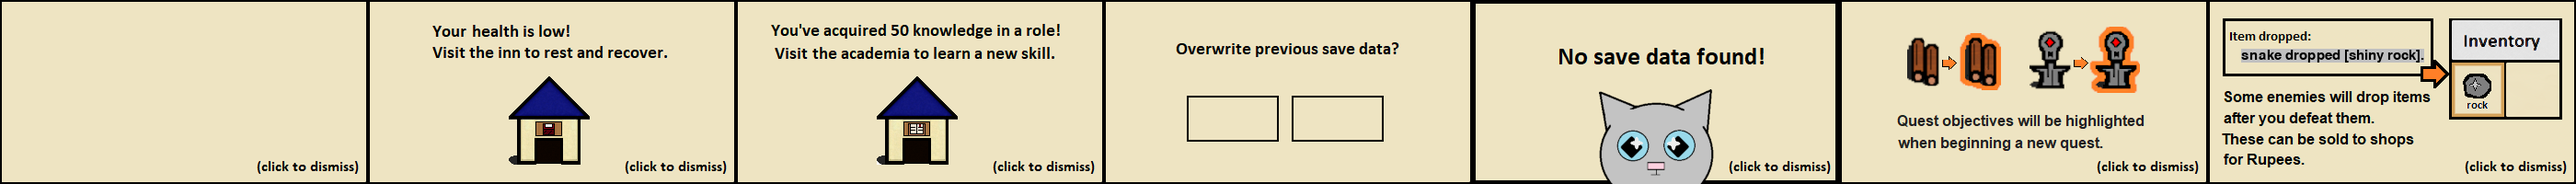
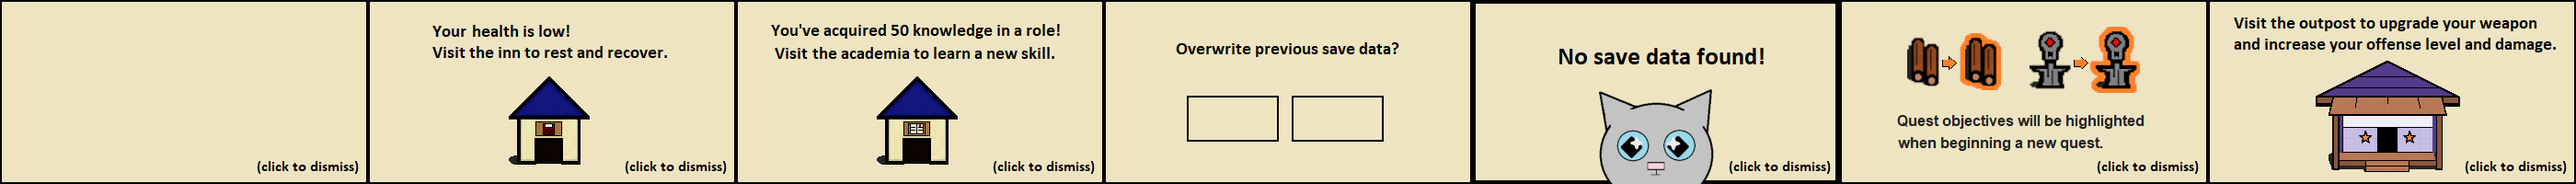
Implemented more visual elements for quests. Added popup for stardust outpost.

Changed region(s): [[0.8389, 0.09, 0.9943, 0.93]]

diff --git a/project_eterna.py b/project_eterna.py
@@ -5799,6 +5799,7 @@ if __name__ == '__main__':
     knowledge_academia = Notification("knowledge academia notification", False, 510, 365,
                                       graphic_dict["knowledge_popup"])
     rest_recover = Notification("rest recover", False, 510, 365, graphic_dict["health_popup"])
+    outpost_notify = Notification("outpost notify", False, 510, 365, graphic_dict["outpost_popup"])
     shop_gear = Notification("shop gear", False, 510, 365, graphic_dict["gear_popup"])
     save_check = Notification("save check", False, 510, 365, graphic_dict["save_popup"])
     save_absent = Notification("save absent", False, 640, 574, graphic_dict["save_not_found"])
@@ -6174,6 +6175,7 @@ if __name__ == '__main__':
     menagerie_window = UiElement("menagerie window", 500, 319, graphic_dict["kasper_manage"])
     pet_hatch_window = UiElement("hatching window", 820, 440, graphic_dict["seed_hatching"])
     pet_energy_window = UiElement("pet energy", 375, 45, graphic_dict["pet_energy"])
+    quest_visual = UiElement("quest visual", 500, 500, graphic_dict["pine_logs_big_img"])
 
     seldon_flower_more_button = pygame.Rect((205, 225), (50, 50))
     seldon_flower_less_button = pygame.Rect((205, 290), (50, 50))
@@ -6672,6 +6674,7 @@ if __name__ == '__main__':
     knowledge_academia_show = False
     knowledge_window_clicked = False
     rest_recover_show = False
+    outpost_show = True
     rest_window_clicked = False
     saved = False
     entered = False
@@ -8046,6 +8049,10 @@ if __name__ == '__main__':
                                 drawing_functions.game_guide_container.clear()
                             if level_up_win.rect.collidepoint(pos):
                                 drawing_functions.level_up_draw(level_up_win, player, font, False)
+                            if outpost_notify.rect.collidepoint(pos):
+                                drawing_functions.outpost_window.clear()
+                                if len(drawing_functions.outpost_window) > 0:
+                                    outpost_show = False
 
                 # ------------------------------------------------------------------------------------------------------
                 # ------------------------------------------------------------------------------------------------------
@@ -9266,7 +9273,7 @@ if __name__ == '__main__':
                                                                            rock_3, pet_energy_window, stardust_top,
                                                                            necrola_battle_sprite, osodark_battle_sprite,
                                                                            sfx_nede_bark, sfx_door_open, sfx_item_rupee,
-                                                                           rock_3_con)
+                                                                           rock_3_con, outpost_show, outpost_notify)
                     else:
                         stardust_returned = zone_stardust.stardust_outpost(pygame, player, game_window,
                                                                            stardust_song_set, stardust_outpost_music,
@@ -9296,7 +9303,7 @@ if __name__ == '__main__':
                                                                            rock_3, pet_energy_window, stardust_top,
                                                                            necrola_battle_sprite, osodark_battle_sprite,
                                                                            sfx_nede_bark, sfx_door_open, sfx_item_rupee,
-                                                                           rock_3_con)
+                                                                           rock_3_con, outpost_show, outpost_notify)
 
                     stardust_song_set = stardust_returned["stardust_song_set"]
                     nede_sprite_reset = stardust_returned["nede_sprite_reset"]
@@ -9313,6 +9320,7 @@ if __name__ == '__main__':
                     interacted = stardust_returned["interacted"]
                     npc_tic = stardust_returned["npc_tic"]
                     rock_3_con = stardust_returned["rock_3_con"]
+                    outpost_show = stardust_returned["outpost_show"]
 
                     loot_popup_returned = drawing_functions.loot_popups(time, loot_updated, font, loot_popup,
                                                                         battle_info_to_return_to_main_loop, leveled)
@@ -12466,6 +12474,12 @@ if __name__ == '__main__':
                                                                  quest_star_apothecary.y_coordinate,
                                                                  graphic_dict["building_npc_star_complete"])
                                     screen.blit(quest_star_apothecary.surf, quest_star_apothecary.rect)
+                            if player.quest_complete["can't apothecary it"]:
+                                quest_visual.update(115, 380, graphic_dict["ore_big_pile_img"])
+                                screen.blit(quest_visual.surf, quest_visual.rect)
+                            else:
+                                quest_visual.update(115, 380, graphic_dict["ore_big_img"])
+                                screen.blit(quest_visual.surf, quest_visual.rect)
                         else:
                             game_window.blit(korlok_district_apothecary, (0, 0))
                             game_window.blit(equipment_screen.surf, equipment_screen.rect)
@@ -12499,6 +12513,13 @@ if __name__ == '__main__':
                                                                  quest_star_apothecary.y_coordinate,
                                                                  graphic_dict["building_npc_star_complete"])
                                     game_window.blit(quest_star_apothecary.surf, quest_star_apothecary.rect)
+
+                            if player.quest_complete["can't apothecary it"]:
+                                quest_visual.update(115, 380, graphic_dict["ore_big_pile_img"])
+                                game_window.blit(quest_visual.surf, quest_visual.rect)
+                            else:
+                                quest_visual.update(115, 380, graphic_dict["ore_big_img"])
+                                game_window.blit(quest_visual.surf, quest_visual.rect)
 
                         # draw texts to the screen, like message box, player rupees and level, inv and equ updates
                         if SCREEN_WIDTH != 1280 and SCREEN_HEIGHT != 720:
@@ -13978,6 +13999,8 @@ if __name__ == '__main__':
                             if current_npc_interacting.name == "maurelle":
                                 screen.blit(npc_maurelle_interaction.surf, npc_maurelle_interaction.rect)
                                 npc_name_plate.update(675, 165, graphic_dict["npc_name_plate"])
+                                quest_visual.update(500, 500, graphic_dict["pine_logs_big_img"])
+                                screen.blit(quest_visual.surf, quest_visual.rect)
                             if current_npc_interacting.name == "celeste":
                                 if player.quest_progress["where's nede?"] == 1:
                                     screen.blit(nede_big.surf, nede_big.rect)
@@ -14047,6 +14070,12 @@ if __name__ == '__main__':
                                 game_window.blit(npc_garan_interaction.surf, npc_garan_interaction.rect)
                                 npc_name_plate.update(675, 165, graphic_dict["npc_name_plate"])
                             if current_npc_interacting.name == "maurelle":
+                                if player.quest_complete["village repairs"]:
+                                    quest_visual.update(880, 250, graphic_dict["pine_logs_big_pile_img"])
+                                    game_window.blit(quest_visual.surf, quest_visual.rect)
+                                else:
+                                    quest_visual.update(880, 250, graphic_dict["pine_logs_big_img"])
+                                    game_window.blit(quest_visual.surf, quest_visual.rect)
                                 game_window.blit(npc_maurelle_interaction.surf, npc_maurelle_interaction.rect)
                                 npc_name_plate.update(675, 165, graphic_dict["npc_name_plate"])
                             if current_npc_interacting.name == "celeste":

diff --git a/zone_stardust.py b/zone_stardust.py
@@ -15,7 +15,7 @@ def stardust_outpost(pygame, player, screen, stardust_song_set, stardust_outpost
                      movement_able, in_shop, magmon_battle_sprite, bandile_battle_sprite, chinzilla_battle_sprite,
                      equipment_screen, staff, sword, bow, npc_garan, offense_meter, defense_meter, weapon_select,
                      rock, pet_energy_window, stardust_top, necrola_battle_sprite, osodark_battle_sprite, sfx_nede,
-                     sfx_door, sfx_rupee, rock_3_con):
+                     sfx_door, sfx_rupee, rock_3_con, outpost_show, outpost_notify):
 
     if not stardust_song_set:
         pygame.mixer.music.fadeout(50)
@@ -213,6 +213,10 @@ def stardust_outpost(pygame, player, screen, stardust_song_set, stardust_outpost
     if button_highlighted:
         screen.blit(button_highlight.surf, button_highlight.rect)
 
+    if len(drawing_functions.outpost_window) > 0:
+        for outpost_item in drawing_functions.outpost_window:
+            screen.blit(outpost_item.surf, outpost_item.rect)
+
     # move player to seldon district when they approach nascent grove exit
     if player.x_coordinate > 925 and 175 < player.y_coordinate < 275:
         player.current_zone = "seldon"
@@ -235,6 +239,12 @@ def stardust_outpost(pygame, player, screen, stardust_song_set, stardust_outpost
                     if face_direction == "right":
                         nede.update(nede.x_coordinate, nede.y_coordinate,
                                     graphic_dict["nede_high_right"])
+        else:
+            if not player.quest_complete["where's nede?"]:
+                if outpost_show:
+                    drawing_functions.outpost_window.append(outpost_notify)
+                    outpost_show = False
+
     else:
         if player.quest_progress["where's nede?"] < 1:
             face_direction = random.choice(["left", "right"])
@@ -252,6 +262,7 @@ def stardust_outpost(pygame, player, screen, stardust_song_set, stardust_outpost
                        in_over_world, "info_text_1": info_text_1, "info_text_2": info_text_2, "info_text_3":
                        info_text_3, "info_text_4": info_text_4, "movement_able": movement_able,
                        "current_building_entering": current_building_entering, "in_shop": in_shop,
-                       "interacted": interacted, "npc_tic": npc_tic, "rock_3_con": rock_3_con}
+                       "interacted": interacted, "npc_tic": npc_tic, "rock_3_con": rock_3_con,
+                       "outpost_show": outpost_show}
 
     return stardust_return

diff --git a/graphics.py b/graphics.py
@@ -5029,7 +5029,7 @@ def load_graphics():
     loaded_dict["save_popup"] = popups_sheet[3]
     loaded_dict["save_not_found"] = popups_sheet[4]
     loaded_dict["quest_popup"] = popups_sheet[5]
-    loaded_dict["drop_popup"] = popups_sheet[6]
+    loaded_dict["outpost_popup"] = popups_sheet[6]
     # quest pine logs --------------------------------------------------------------------------------------------------
     quest_logs_url = resource_path('resources/art/sprite_logs.png')
     quest_logs_sheet = sprite_sheet((40, 50), quest_logs_url)
@@ -5040,6 +5040,16 @@ def load_graphics():
     quest_logs_pile_sheet = sprite_sheet((50, 50), quest_logs_pile_url)
     loaded_dict["pine_logs_pile_img"] = quest_logs_pile_sheet[0]
     loaded_dict["pine_logs_piled_img"] = quest_logs_pile_sheet[1]
+    # quest logs visual ------------------------------------------------------------------------------------------------
+    quest_logs_big_url = resource_path('resources/art/sprite_logs_big.png')
+    quest_logs_big_sheet = sprite_sheet((300, 250), quest_logs_big_url)
+    loaded_dict["pine_logs_big_img"] = quest_logs_big_sheet[0]
+    loaded_dict["pine_logs_big_pile_img"] = quest_logs_big_sheet[1]
+    # quest ore visual ------------------------------------------------------------------------------------------------
+    quest_ore_big_url = resource_path('resources/art/sprite_ore_big.png')
+    quest_ore_big_sheet = sprite_sheet((300, 250), quest_ore_big_url)
+    loaded_dict["ore_big_img"] = quest_ore_big_sheet[0]
+    loaded_dict["ore_big_pile_img"] = quest_ore_big_sheet[1]
     # quest supplies --------------------------------------------------------------------------------------------------
     quest_supplies_url = resource_path('resources/art/sprites_supplies.png')
     quest_supplies_sheet = sprite_sheet((50, 50), quest_supplies_url)

diff --git a/drawing_functions.py b/drawing_functions.py
@@ -21,6 +21,7 @@ loot_text_container = []
 knowledge_academia_window = []
 first_quest_window = []
 rest_recover_window = []
+outpost_window = []
 first_item_window = []
 game_guide_container = []
 world_map_container = []
@@ -90,6 +91,9 @@ def draw_it(screen):
     if len(first_item_window) > 0:
         for item_window in first_item_window:
             screen.blit(item_window.surf, item_window.rect)
+    if len(outpost_window) > 0:
+        for outpost_item in outpost_window:
+            screen.blit(outpost_item.surf, outpost_item.rect)
     if len(game_guide_container) > 0:
         for guide_overlay in game_guide_container:
             screen.blit(guide_overlay.surf, guide_overlay.rect)
